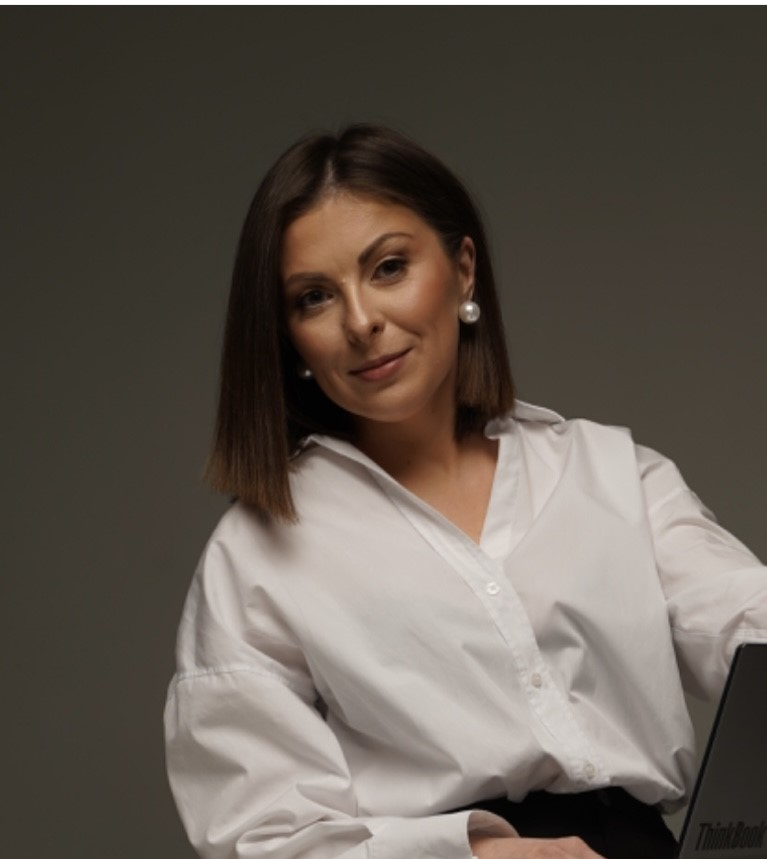
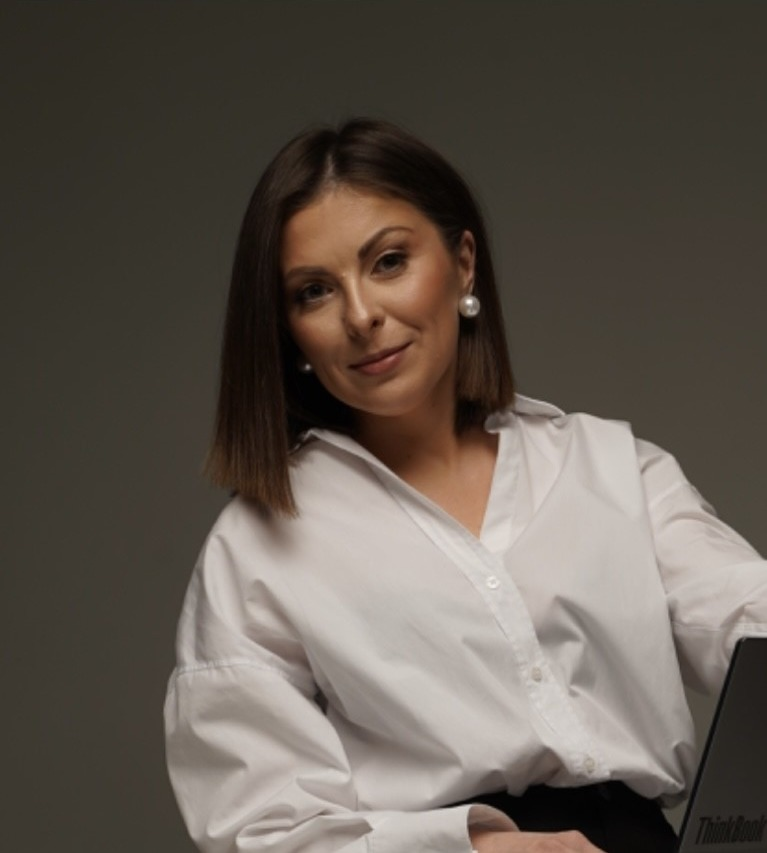
Remove education paragraph; crop white strip from photo

diff --git a/pro-mene.html b/pro-mene.html
@@ -52,13 +52,12 @@
   </div>
   <section class="about">
     <div class="wrap">
-      <div class="portrait"><img src="img/julia.jpg" alt="Julia Hajecka"></div>
+      <div class="portrait"><img src="img/julia.jpg?v=31" alt="Julia Hajecka"></div>
       <div>
         <h2 class="subh">Більше, ніж документи</h2>
         <p>Легалізація перебування — це значно більше, ніж документи та адміністративні процедури. Це безпека родини, стабільність роботи й можливість спокійно будувати майбутнє в Польщі.</p>
         <p>З 2017 року я допомагаю іноземцям, їхнім родинам і підприємцям у справах легалізації перебування та праці в Польщі. Сьогодні поєдную власний досвід зі знаннями команди перевірених фахівців: визначаю напрям дій, стежу за єдиною стратегією та якістю обслуговування на кожному етапі.</p>
         <p>Я не вірю в універсальні рішення. Перш ніж діяти, ми аналізуємо обставини справи, потреби клієнта та доступні правові можливості — і дивимося ширше за одну заяву: на довгострокові плани, ризики та наступні етапи перебування в Польщі.</p>
-        <p>Мені допомагають освіта в галузі політології зі спеціалізацією з прикордонного руху та курс юридичного перекладу. Я постійно стежу за змінами в законодавстві, щоб кожне рішення спиралося на актуальні знання.</p>
         <p class="pull">Понад 1500 родин довірили мені свої справи. За цим числом — конкретні історії та люди, для яких легалізація означає можливість жити разом, працювати й планувати майбутнє в Польщі.</p>
       </div>
     </div>

diff --git a/index.html b/index.html
@@ -53,7 +53,7 @@
             <a class="btn btn-ghost" href="poslugy.html">Послуги та ціни</a>
           </div>
         </div>
-        <div class="portrait"><img src="img/julia.jpg" alt="Julia Hajecka"></div>
+        <div class="portrait"><img src="img/julia.jpg?v=31" alt="Julia Hajecka"></div>
       </div>
       <div class="doors">
         <a class="door" href="poslugy.html">
